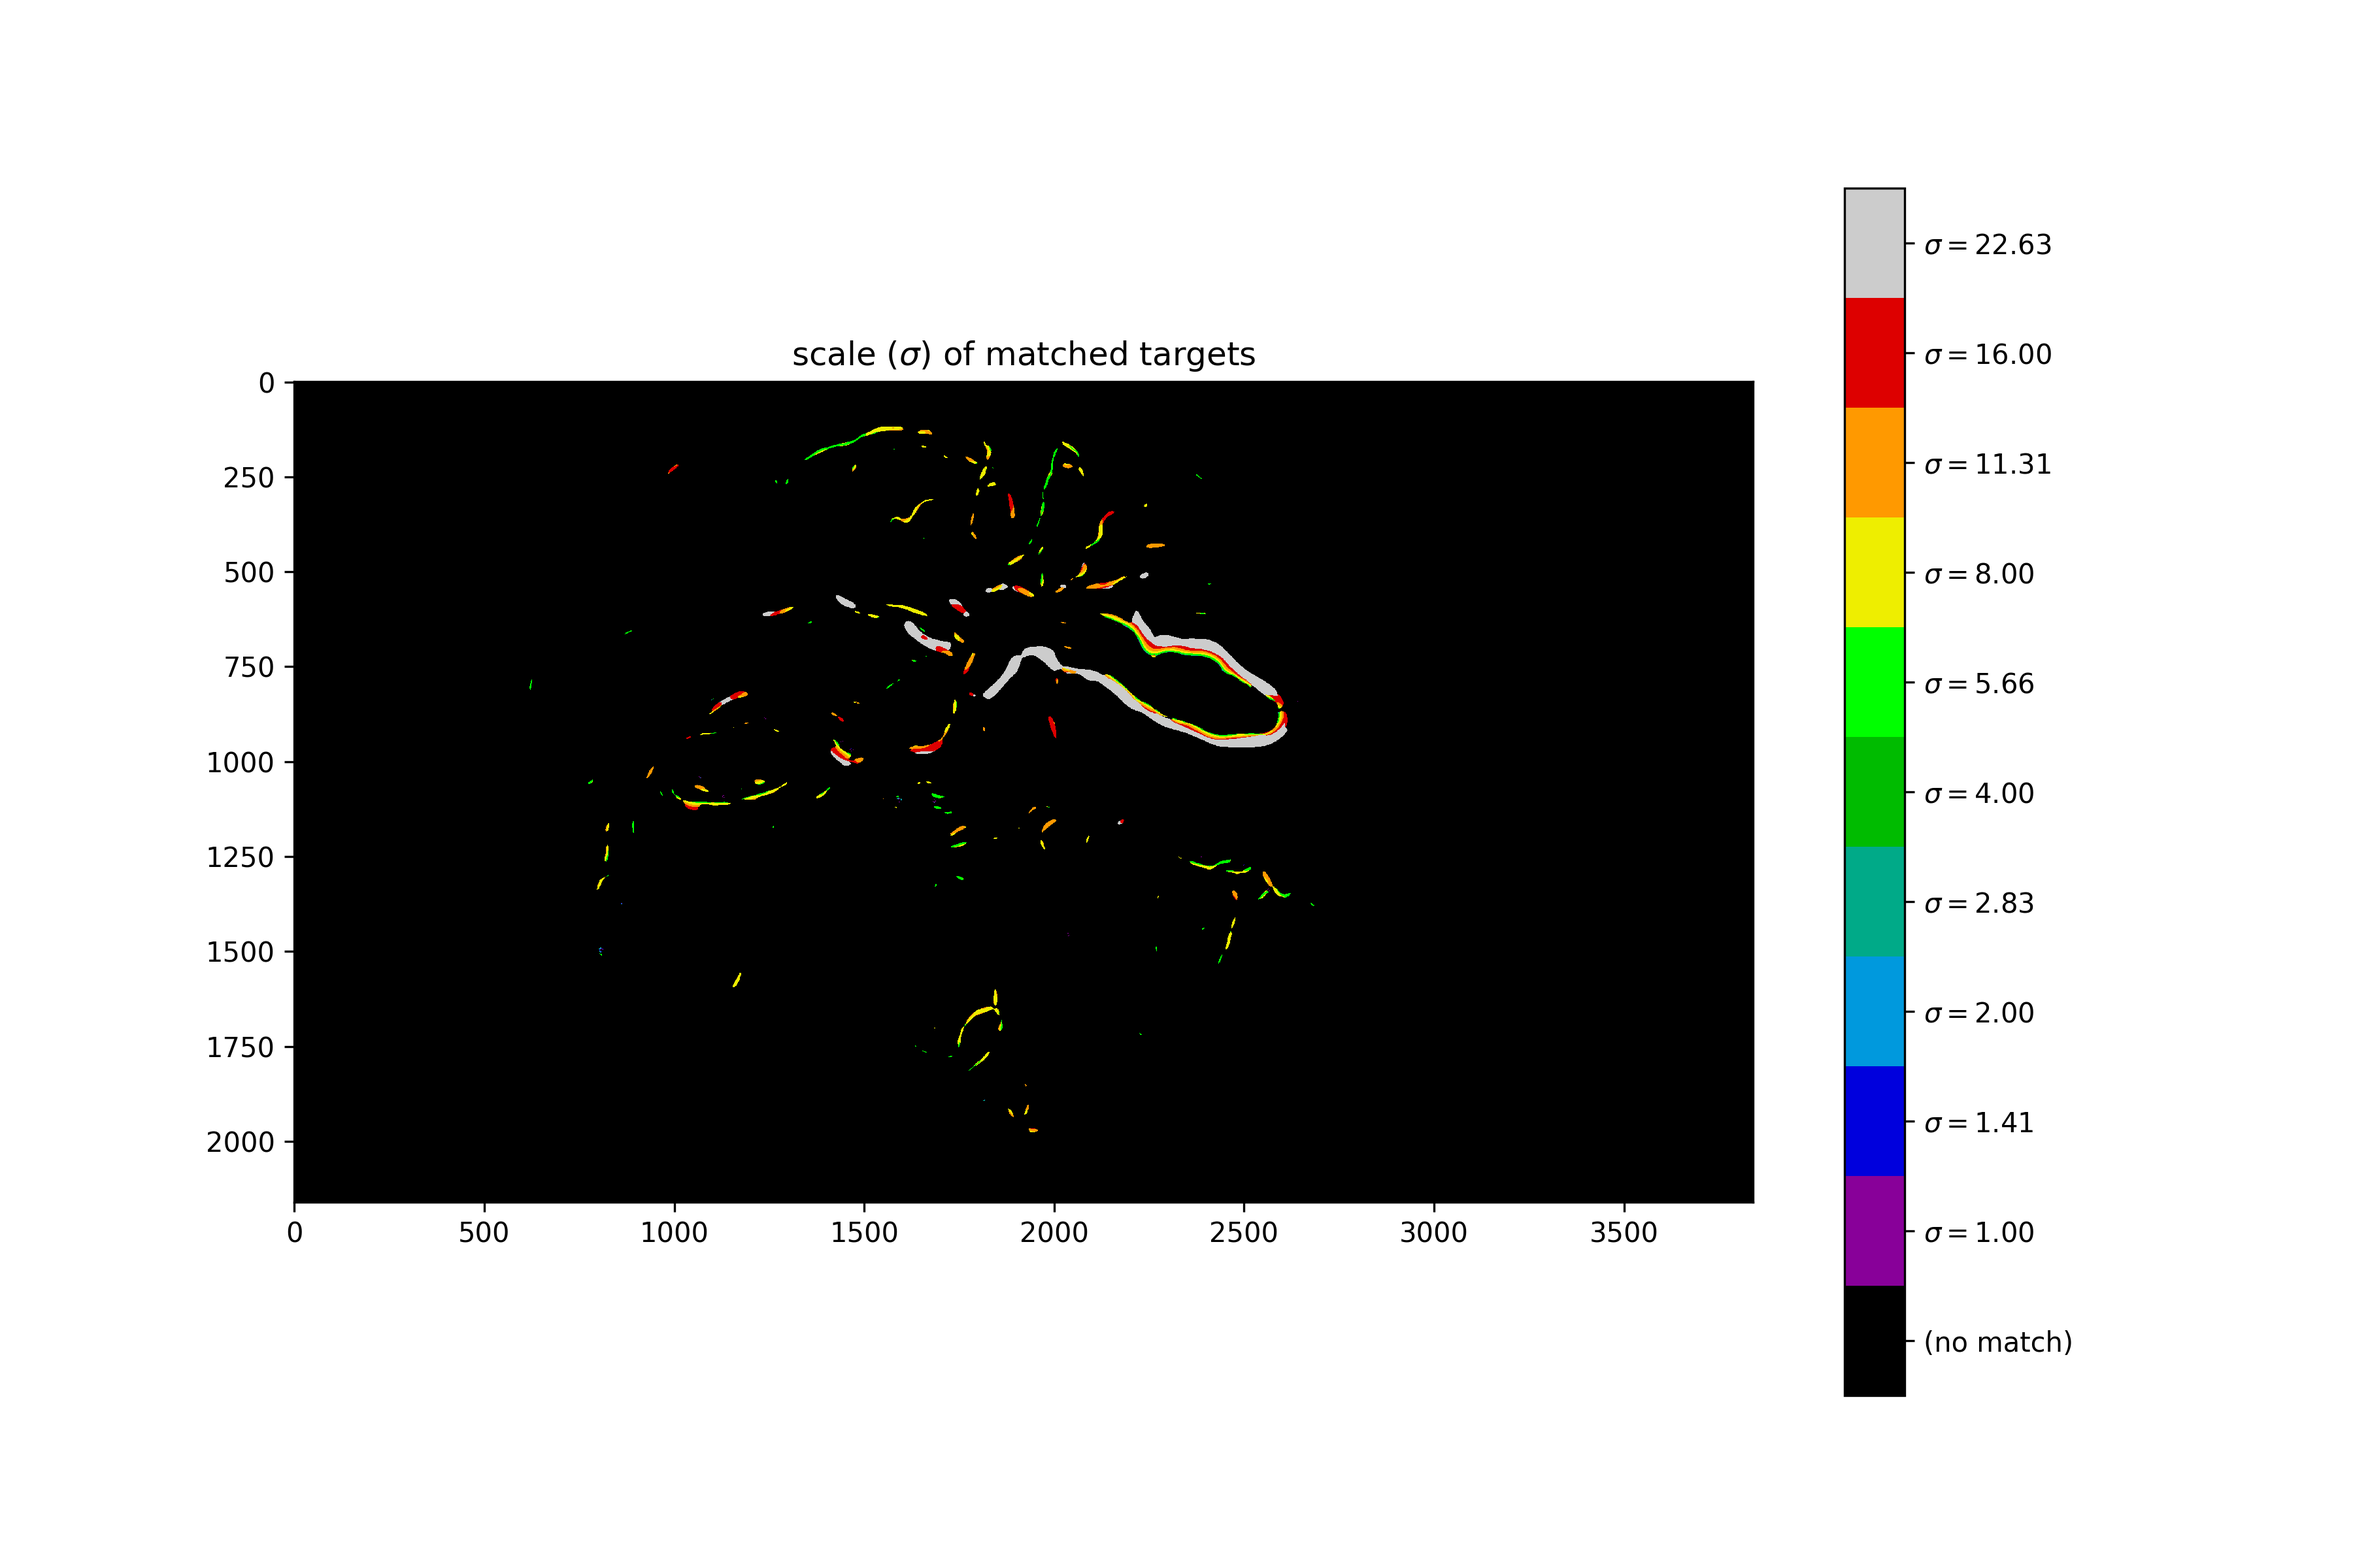
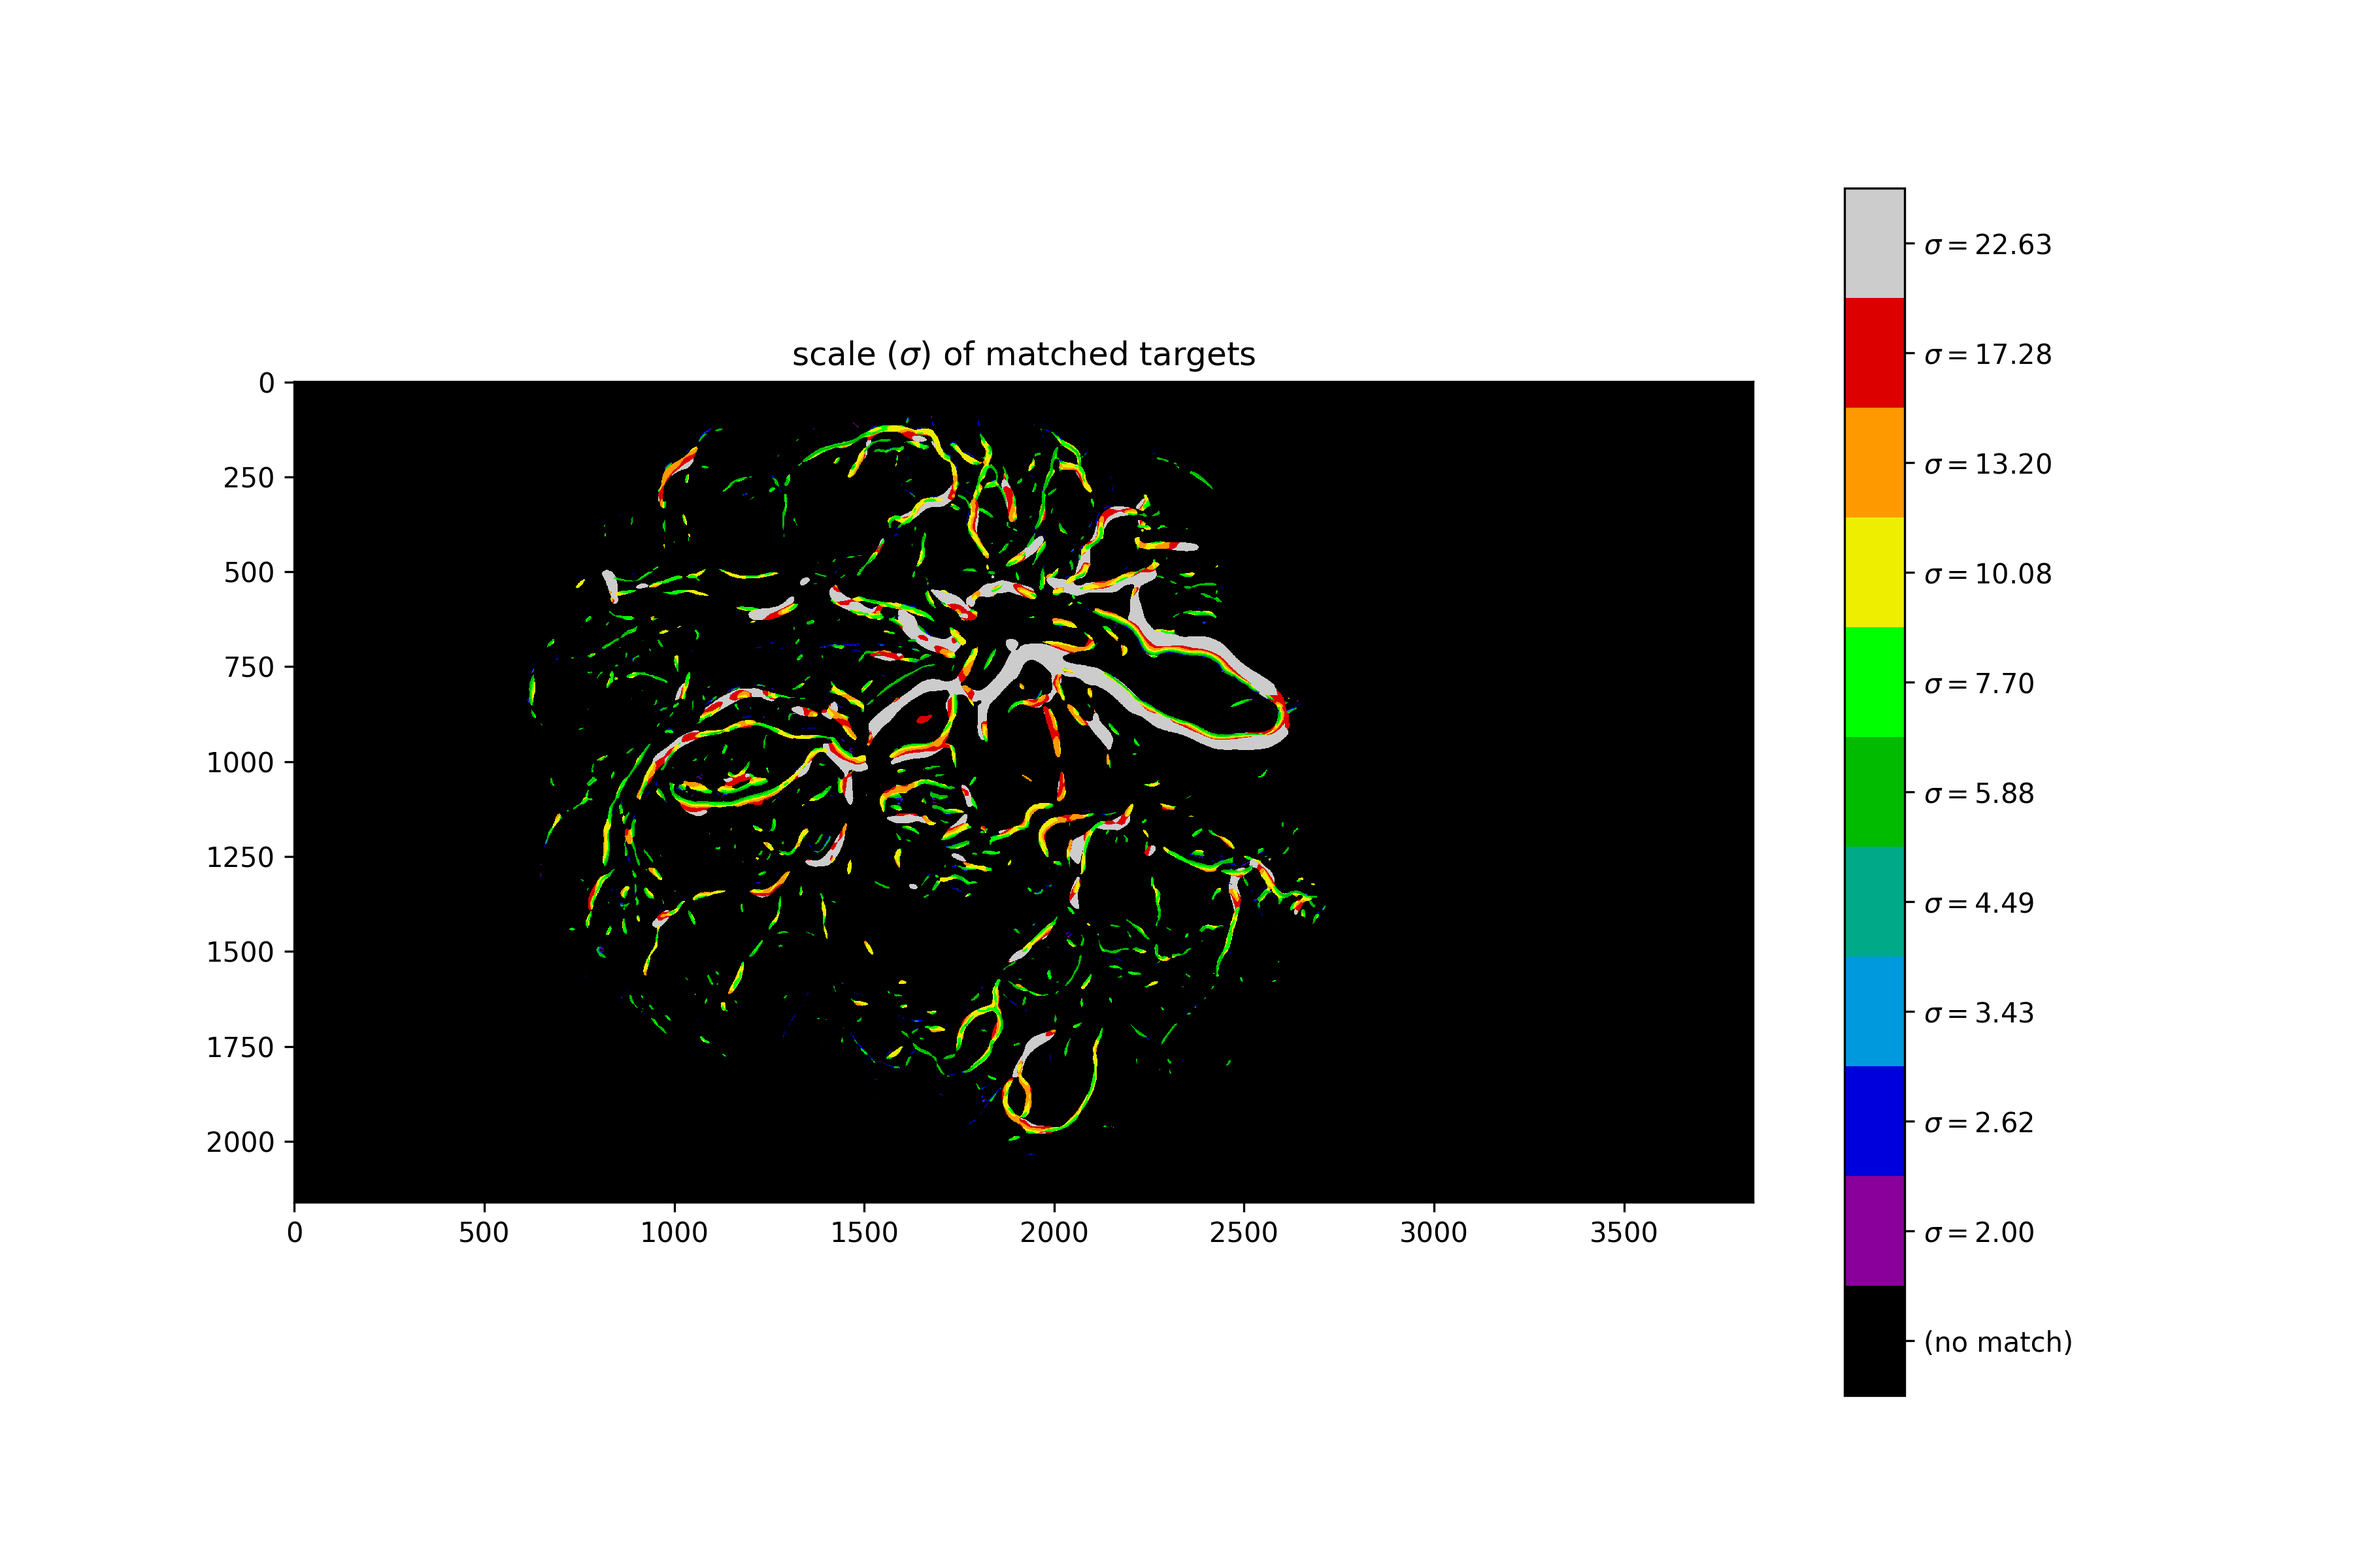
track an inset

diff --git a/pcsvn.py b/pcsvn.py
@@ -62,7 +62,7 @@ def make_multiscale(img, scales, betas, gammas, find_principal_directions=False,
             # half the max spectral radius is easier to calculate so do that
 
             # shouldn't be affected by mask data but should make sure the
-            # mask is *welll* far away from perimeter
+            # mask is *well* far away from perimeter
             gamma = .5 * np.abs(k2).max()
 
         if VERBOSE:
@@ -223,7 +223,8 @@ alpha = 0.08
 #filename = 'barium2.png'; DARK_BG = True
 #filename = 'NYMH_ID130016i.png'; DARK_BG = True
 #filename = 'NYMH_ID130016u.png'; DARK_BG = False
-filename =  'im0059.png'; DARK_BG = False # set alpha much smaller, like .1
+#filename = 'NYMH_ID130016u_inset.png'; DARK_BG = False
+#filename =  'im0059.png'; DARK_BG = False # set alpha much smaller, like .1
 
 raw_img = get_named_placenta(filename, maskfile=None)
 
@@ -239,14 +240,14 @@ bg_mask = img.mask
 
 # set range of sigmas to use (declare these above)
 # the
-log_min = 0 # minimum scale is 2**log_min
+log_min = 1 # minimum scale is 2**log_min
 log_max = 4.5 # maximum scale is 2**log_max
 scales = np.logspace(log_min, log_max, num=10, base=2)
 
 
 # set betas (anisotropy parameters)
 # 0.5 is frangi's recommendation... i think
-betas = [0.5 for s in scales]
+betas = [0.6 for s in scales]
 
 # set gammas (structness parameter)
 # declare None here to calculate half of hessian's norm
@@ -299,8 +300,7 @@ F_all = np.dstack([scale['F'] for scale in multiscale])
 # the max Frangi target
 F_max = F_all.max(axis=-1)
 
-if ma.is_masked(img):
-    F_max = ma.masked_array(F_max, mask=img.mask)
+F_max = ma.masked_array(F_max, mask=img.mask)
 
 # is the frangi vesselness measure strong enough
 F_cumulative = (F_max > alpha)
